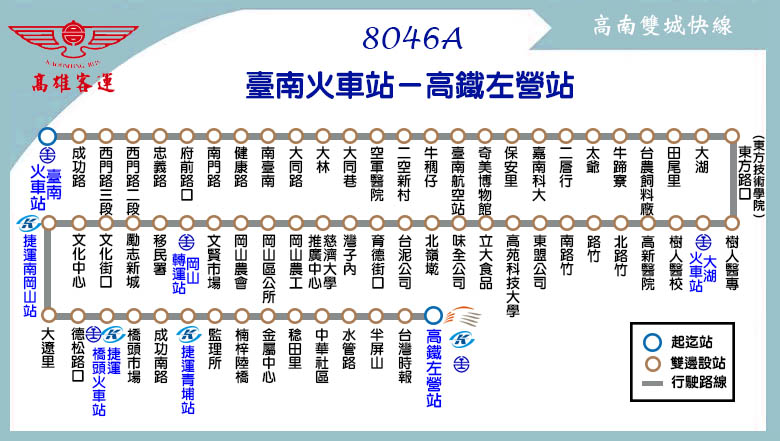
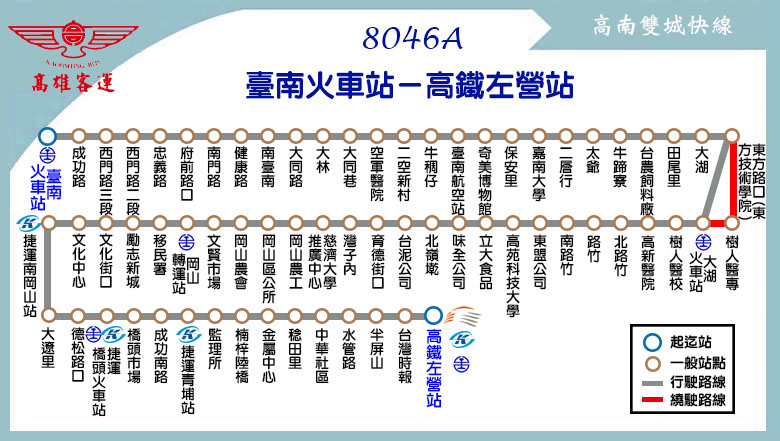
更新高雄客運票價表：8035、8042、8046、8046A (更新現金及電子票證票價，新增一卡通票價)

diff --git a/route/fare_and_time/highway_bus_8046.js b/route/fare_and_time/highway_bus_8046.js
@@ -1,18 +1,40 @@
-highway_bus_8046_interval_name = ["臺南火車站","嘉南大學","路竹","岡山","高雄火車站"];
+highway_bus_8046_interval_name = ["臺南","南臺南","大林","牛稠仔","嘉南大學","大湖","路竹","北嶺墘","岡山","橋頭","楠梓陸橋","榮總","民族路","高雄<br />火車站"];
 highway_bus_8046_interval_stop = [
-["臺南火車站"],
-["嘉南大學"],
-["路竹"],
-["岡山轉運站"],
-["高雄火車站"]
+["臺南火車站","成功路","西門路三段","西門路二段"],
+["忠義路","府前路口","南門路","健康路","南臺南"],
+["大同路","大林","大同巷","空軍醫院"],
+["二空新村","牛稠仔","臺南航空站","奇美博物館"],
+["保安里","嘉南大學","二層行","太爺","牛蹄寮"],
+["台農飼料廠","田尾里","大湖","東方路口(東方技術學院)","大湖火車站"],
+["樹人醫校","高新醫院","北路竹","路竹","南路竹","東盟公司"],
+["高苑科技大學","立大食品","味全公司","北嶺墘","台泥公司","育德街口","灣仔內","慈濟大學推廣中心"],
+["岡山農工","岡山區公所","岡山農會","文賢市場","移民署","勵志新城","文化街口","岡山文化中心","捷運南岡山站"],
+["大遼里","德松路口","捷運橋頭火車站","橋頭市場","成功南路","捷運青埔站"],
+["監理所","楠梓陸橋","金屬中心","稔田里","中華社區","水管路","半屏山","台灣時報"],
+["高楠新村","福檳新村","新莊高中","大中路口","菜公路口","文藻外語大學","天祥路口"],
+["郵局宿舍","民族路(明誠路口)","大統新世紀","隆峰寺","灣仔內","果菜公司"],
+["高醫","三民國中","三民公園","中山一路口","高雄站"]
 ];
-highway_bus_8046_stop_time_consume = [0,20,30,45,60,70];
 highway_bus_8046_fare = [
+[26],
+[26,26],
+[26,26,26],
+[26,26,26,26],
+[37,26,26,26,26],
+[51,40,33,26,26,26],
+[62,52,45,37,26,26,26],
+[77,66,59,52,40,26,26,26],
+[90,79,72,64,53,39,27,26,26],
+[105,95,87,80,68,54,43,28,26,26],
+[116,106,99,91,80,66,54,40,27,26,26],
+[133,122,115,108,96,82,70,56,43,28,26,26],
+[144,134,126,119,107,93,82,67,54,39,28,26,26],
+[155,145,137,130,118,104,92,78,65,50,39,26,26,26]
 ];
 // format = [time at the start stop] or
 // [time, other] or
 // [time, start_stop, end_stop, other]
-highway_bus_8046_main_stop_name = ["臺南<br />火車站","西門路<br />二段","大林","臺南<br />航空站","奇美<br />博物館","嘉南<br />藥理大學","大湖<br />火車站","路竹","捷運<br />南岡山站","高雄<br />火車站"];
+highway_bus_8046_main_stop_name = ["臺南<br />火車站","西門路<br />二段","大林","臺南<br />航空站","奇美<br />博物館","嘉南大學","大湖<br />火車站","路竹","捷運<br />南岡山站","高雄<br />火車站"];
 highway_bus_8046_main_stop_time_consume = [0,6,15,22,25,28,40,45,70,110];
 highway_bus_8046_important_stop = [0, 4, 6, 8, 9]; // 臺南火車站, 奇美博物館, 大湖火車站, 捷運南岡山站, 高雄火車站
 highway_bus_8046_time_go = [["05:50"]];

diff --git a/route/fare_and_time/highway_bus_8046A.js b/route/fare_and_time/highway_bus_8046A.js
@@ -1,13 +1,31 @@
-highway_bus_8046A_interval_name = ["臺南火車站","嘉南大學","路竹","岡山","楠梓站","高鐵左營站"];
+highway_bus_8046A_interval_name = ["臺南","南臺南","大林","牛稠仔","嘉南大學","大湖","路竹","北嶺墘","岡山","橋頭","楠梓陸橋","高鐵<br />左營站"];
 highway_bus_8046A_interval_stop = [
-["臺南火車站"],
-["嘉南大學"],
-["路竹"],
-["岡山轉運站"],
-["楠梓站"],
+["臺南火車站","成功路","西門路三段","西門路二段"],
+["忠義路","府前路口","南門路","健康路","南臺南"],
+["大同路","大林","大同巷","空軍醫院"],
+["二空新村","牛稠仔","臺南航空站","奇美博物館"],
+["保安里","嘉南大學","二層行","太爺","牛蹄寮"],
+["台農飼料廠","田尾里","大湖","東方路口(東方技術學院)","樹人醫專","大湖火車站"],
+["樹人醫校","高新醫院","北路竹","路竹","南路竹","東盟公司"],
+["高苑科技大學","立大食品","味全公司","北嶺墘","台泥公司","育德街口","灣仔內","慈濟大學推廣中心"],
+["岡山農工","岡山區公所","岡山農會","文賢市場","岡山轉運站","移民署","勵志新城","文化街口","岡山文化中心","捷運南岡山站"],
+["大遼里","德松路口","捷運橋頭火車站","橋頭市場","成功南路","捷運青埔站"],
+["監理所","楠梓陸橋","金屬中心","稔田里","中華社區","水管路","半屏山","台灣時報"],
 ["高鐵左營站"]
 ];
 highway_bus_8046A_fare = [
+[26],
+[26,26],
+[26,26,26],
+[26,26,26,26],
+[37,26,26,26,26],
+[51,40,33,26,26,26],
+[72,61,54,46,35,26,26],
+[86,75,68,61,49,35,26,26],
+[99,88,81,73,62,48,27,26,26],
+[114,104,96,89,77,63,43,28,26,26],
+[125,115,108,100,89,75,54,40,27,26,26],
+[142,131,124,117,105,91,70,56,43,28,26,26]
 ];
 // format = [time at the start stop] or
 // [time, other] or

diff --git a/route/fare_and_time/highway_bus_8042.js b/route/fare_and_time/highway_bus_8042.js
@@ -1,12 +1,29 @@
-highway_bus_8042_interval_name = ["奇美<br />博物站","高鐵<br />台南站","阿蓮","田寮","旗山"];
+highway_bus_8042_interval_name = ["臺南<br />航空站","奇美<br />博物站","高鐵<br />臺南站","阿蓮","崗山頭","月世界","古亭","鹿埔","馬頭山","旗山","中埔"];
 highway_bus_8042_interval_stop = [
-["奇美博物站"],
-["高鐵台南站"],
-["阿蓮分駐所"],
-["崗山頭"],
-["旗山轉運站","旗山北站"]
+["臺南航空站"], // 臺南航空站
+["奇美博物站"], // 奇美博物站
+["高鐵臺南站"], // 高鐵臺南站
+["崙仔頂","阿蓮分駐所","阿蓮","中正路","工業區","源勝社區","磚子窯"], // 阿蓮
+["大埤","南崗山","峰山里","崗山頭","崗山頭溫泉","崗安路","崗山頭市場"], // 崗山頭
+["竹山","糖廠","營盤頂","崇德國小","崇德市場","北勢宅","月世界","日月禪寺","古亭橋"], // 月世界
+["南勢崎頂","古亭水庫","古亭"], // 古亭
+["鹿埔","鹿埔分校","內門路口"], // 鹿埔
+["馬頭山頂","馬頭山","旗山分校","橋覺寺","鼓山崎嶺"], // 馬頭山
+["旗亭橋","中學路","德昌路","旗山轉運站","延平路","市場","中華路口","旗山北站"], // 旗山
+["旗山監理所","朝天宮","嶺頂","實踐大學"] // 中埔
 ];
 highway_bus_8042_fare = [
+[26],
+[26,26],
+[26,26,26],
+[51,46,26,26],
+[62,57,35,26,26],
+[77,72,50,26,26,26],
+[84,79,57,33,26,26,26],
+[92,87,66,41,30,26,26,26],
+[103,99,77,53,42,27,26,26,26],
+[122,118,96,72,61,46,39,30,26,26],
+[138,133,111,87,76,61,54,46,34,26,26]
 ];
 // format = [time at the start stop] or
 // [time, other] or

diff --git a/route/fare_and_time/highway_bus_8035.js b/route/fare_and_time/highway_bus_8035.js
@@ -1,20 +1,19 @@
 highway_bus_8035_interval_name = ["南化","金馬寮","木柵","內門","中埔","旗山"];
 highway_bus_8035_interval_stop = [
-["南化","南化派出所"], // 南化
-["界址","西廍","東埔派出所","大坪","北頭","金馬寮","茄苳橋"], // 金馬寮
-["分水嶺","內興里","椰樹橋","頂寮橋","木柵","蘇遠埔","內湖"], // 木柵
-["口湖","內門","內門區公所","內門國小","十三甲","內埔橋"], // 內門
-["菜公坑","中埔頭","內門國中","中埔","觀音亭","農會","二層橋","石溝","實踐大學"], // 中埔
-["嶺頂","朝天宮","旗山監理站","旗山北站","中華路口","市場","延平站","旗山轉運站"] // 旗山
+["南化","南化派出所","界址","西廍","東埔派出所"], // 南化
+["大坪","北頭","金馬寮","茄苳橋","分水嶺","內興里"], // 金馬寮
+["椰樹橋","頂寮橋","木柵","蘇遠埔","內湖"], // 木柵
+["口湖","內門","內門區公所","內門國小","十三甲","內埔橋","菜公坑"], // 內門
+["中埔頭","內門國中","中埔","觀音亭","農會","二層橋","石溝","實踐大學","嶺頂"], // 中埔
+["朝天宮","旗山監理站","旗山北站","中華路口","市場","延平路","旗山轉運站"] // 旗山
 ];
-highway_bus_8035_stop_time_consume = [0,20,30,45,60,70];
 highway_bus_8035_fare = [
-[26,23,25,36,46,64],
-[26,26,23,23,33,51],
-[28,26,26,23,23,40],
-[41,26,26,26,23,28],
-[52,37,26,26,26,23],
-[73,58,45,32,26,26]
+[26],
+[26,26],
+[28,26,26],
+[41,26,26,26],
+[52,37,26,26,26],
+[86,71,58,44,26,26]
 ];
 // format = [time at the start stop] or
 // [time, other] or

diff --git a/tools/web_model.js b/tools/web_model.js
@@ -302,9 +302,21 @@ function block_fare_highway(charge_type, additional_message){
 			<p>　</p>');
 	print_fare_table( eval(route_file_name + '_interval_name'), eval(route_file_name + '_fare'), fare_table_color, charge_type);
 
-	document.write('<p>　</p>\
-		<h2>使用電子票證時，上下車皆須刷卡</h2><br />\
-		<h3>刷電子票證票價僅供參考，誤差為1元上下</h3>');
+	var fare_notice = '<h2>使用電子票證時，上下車皆須刷卡</h2><br />';
+	if(charge_type=='Kaohsiung') {
+		fare_notice += '<h3><span style="color: red;">本路線非大台南公車，無法享有八公里免費及轉乘優惠</span></h3>\
+		<h1>本路線使用「一卡通」刷卡現折12元，且單趟收費最高上限為60元</h1>\
+		<p><span style="color: blue; font-weight: bold;">(僅一卡通普卡、學生卡享此優惠，已享優惠之卡種如半票不適用)</span></p>';
+	}
+	else if(charge_type=='8050') {
+		fare_notice += '<h3>刷電子票證票價僅供參考，誤差為1元上下</h3>\
+						<h1>本路線不適用一卡通折12元及收費最高上限優惠</h1>';
+	}
+	else {
+		fare_notice += '<h3><span style="color:red;">本路線非大台南公車，無法享有八公里免費及轉乘優惠</span></h3>\
+						<h3>刷電子票證票價僅供參考，誤差為1元上下</h3>';
+	}
+	document.write('<p>　</p>' + fare_notice);
 	if(additional_message) document.write(additional_message); // print additional message
 	document.write('<p>　</p></div>\
 	</div>\

diff --git a/highway/8050.html b/highway/8050.html
@@ -22,8 +22,7 @@
 	block_header();
 	block_route_map(null);
 	block_route_info(route_interval,'高雄客運','','里程計費','http://taiwanbus.tw/information.aspx?Line=9325&Lang=" target="_blank');
-	block_fare_highway("8050",'<h1>本路線不適用一卡通收費最高上限優惠</h1>\
-<center><div style="text-align: left; width: 550px; border:solid 1px; margin-top: 30px; background-color: #BBFFBB; padding: 15px;"><h3>1. 持市民卡所有卡種刷卡搭乘8050公車享基本里程免費，以及2小時內大台南公車及8050雙向轉乘9元優惠。</h3>\
+	block_fare_highway("8050",'<p> </p><h2><span style="color:red;">「臺南市市民卡」專屬優惠</span></h2><center><div style="text-align: left; width: 550px; border:solid 1px; background-color: #BBFFBB; padding: 15px;"><h3>1. 持市民卡所有卡種刷卡搭乘8050公車享基本里程免費，以及2小時內大台南公車及8050雙向轉乘9元優惠。</h3>\
 <h3>2. 臺南市65歲以上市民使用「市民卡敬老卡」、身心障礙市民使用「市民卡愛心卡」刷卡乘車超過基本里程依半票金額扣款。</h3>\
 <h3>3. 臺南市學生使用「市民卡學生卡」無額外85折優惠。</h3></div></center>');
 	block_time_schedule('臺南火車站/旗山轉運站','佛光山','');

diff --git a/highway/8042.html b/highway/8042.html
@@ -24,26 +24,7 @@
 	block_header();
 	block_route_map(null);
 	block_route_info(route_interval,'高雄客運','','里程計費','http://ibus.tbkc.gov.tw/bus/pda/businfo.aspx?Routeid=8042&GO_OR_BACK=2&Line=All&lang=Cht');
-	//block_fare(10, null);
-	document.write('<div id="wrapper3">\
-	<a name="fare"></a>\
-	<div id="faretable" class="container">\
-		<div class="title">\
-			<h2>' + title_name + ' ─ ' + route_name + ' 票價表</h2>\
-			<span class="byline">' + title_name_en + ' ' + route_name_en + ', Bus Fare</span>\
-		</div>\
-		<div class="content">\
-			<p>&nbsp;</p>\
-			<h1><font color="red">尚無提供票價表</font></h1>\
-			<p>&nbsp;</p>\
-			<h1>使用一卡通收費最高上限為60元</h1>\
-			<p>&nbsp;</p><p>&nbsp;</p>\
-			<h2>使用電子票證時，上下車皆須刷卡</h2>\
-			<p> </p>\
-			<p>詳情請參閱高雄客運網站</p><p></p>\
-		</div>\
-	</div>\
-</div>');
+	block_fare_highway("Kaohsiung","");
 	block_time_schedule(route_start_stop,route_end_stop,'<h2><font color="red">僅「假日」延駛奇美博物館、臺南航空站</font></h2>');
 	block_transfer(transfer_hsr_tainan_station);
 	block_copyright();

diff --git a/highway/8046A.html b/highway/8046A.html
@@ -24,26 +24,7 @@
 	block_header();
 	block_route_map(null);
 	block_route_info(route_interval,'高雄客運','','里程計費','http://ibus.tbkc.gov.tw/bus/pda/businfo.aspx?Routeid=8073&GO_OR_BACK=2&Line=All&lang=Cht');
-	//block_fare(10, null);
-	document.write('<div id="wrapper3">\
-	<a name="fare"></a>\
-	<div id="faretable" class="container">\
-		<div class="title">\
-			<h2>' + title_name + ' ─ ' + route_name + ' 票價表</h2>\
-			<span class="byline">' + title_name_en + ' ' + route_name_en + ', Bus Fare</span>\
-		</div>\
-		<div class="content">\
-			<p>&nbsp;</p>\
-			<h1><font color="red">尚無提供票價表</font></h1>\
-			<p>&nbsp;</p>\
-			<h1>使用一卡通收費最高上限為60元</h1>\
-			<p>&nbsp;</p><p>&nbsp;</p>\
-			<h2>使用電子票證時，上下車皆須刷卡</h2>\
-			<p> </p>\
-			<p>詳情請參閱高雄客運網站</p><p></p>\
-		</div>\
-	</div>\
-</div>');
+	block_fare_highway("Kaohsiung","");
 	block_time_schedule(route_start_stop,route_end_stop,'「<font color="red">*</font>」表示不開進樹人醫專');
 	block_transfer(transfer_tainan_railway_station);
 	block_copyright();

diff --git a/highway/8046.html b/highway/8046.html
@@ -24,26 +24,7 @@
 	block_header();
 	block_route_map(null);
 	block_route_info(route_interval,'高雄客運','','里程計費','http://ibus.tbkc.gov.tw/bus/pda/businfo.aspx?Routeid=8046&GO_OR_BACK=2&Line=All&lang=Cht');
-	//block_fare(10, null);
-	document.write('<div id="wrapper3">\
-	<a name="fare"></a>\
-	<div id="faretable" class="container">\
-		<div class="title">\
-			<h2>' + title_name + ' ─ ' + route_name + ' 票價表</h2>\
-			<span class="byline">' + title_name_en + ' ' + route_name_en + ', Bus Fare</span>\
-		</div>\
-		<div class="content">\
-			<p>&nbsp;</p>\
-			<h1><font color="red">尚無提供票價表</font></h1>\
-			<p>&nbsp;</p>\
-			<h1>使用一卡通收費最高上限為60元</h1>\
-			<p>&nbsp;</p><p>&nbsp;</p>\
-			<h2>使用電子票證時，上下車皆須刷卡</h2>\
-			<p> </p>\
-			<p>詳情請參閱高雄客運網站</p><p></p>\
-		</div>\
-	</div>\
-</div>');
+	block_fare_highway("Kaohsiung","");
 	block_time_schedule(route_start_stop,route_end_stop,'');
 	block_transfer(transfer_tainan_railway_station);
 	block_copyright();

diff --git a/tools/show_fare_tool.js b/tools/show_fare_tool.js
@@ -36,7 +36,10 @@ function query_fare(theForm, fare_array, fare_type){
 			card_price = price - 26;
 			break;
 		case 'Kaohsiung':
-			card_price = (fd<td) ? fare_array[fd][td]: (fd==td) ? 23 : fare_array[td][fd];
+			card_price = price;
+			var ipass_price = price - 12; // 使用「一卡通」上車刷卡現折12元
+			document.getElementById("card_adult").innerHTML = (ipass_price > 60) ? 60 : ipass_price; // 收費最高上限60元
+			document.getElementById("card_half").innerHTML = Math.ceil(price / 2); // 半票不適用一卡通優惠
 			break;
 		case 'highway':
 			card_price = (fd<td) ? fare_array[fd][td]: (fd==td) ? 21 : fare_array[td][fd];
@@ -71,6 +74,9 @@ function print_fare_table(interval_name, fare, color, fare_type){ // the functio
 				switch(fare_type) {
 					case '8km':
 						card_price = fare[j][i] - 26;
+						break;
+					case 'Kaohsiung':
+						card_price = fare[j][i];
 						break;
 					case '8050':
 						card_price = Math.round(fare[j][i] * HIGHWAY_CARD_PRICE_RATIO);

diff --git a/route/fare_and_time/highway_bus_8050.js b/route/fare_and_time/highway_bus_8050.js
@@ -12,7 +12,7 @@ highway_bus_8050_interval_stop = [
 ["五間","烏山腳路口","烏山腳","烏山頭"], // 烏山頭
 ["七號橋","內東里","小烏山","竹圍"], // 內東里
 ["內門衛生所","中埔頭","中埔","觀音亭","農會","二層橋","石溝","實踐大學"], // 中埔
-["嶺頂","朝天宮","旗山監理站","旗山北站","中華路口","市場","延平站","旗山轉運站","德昌路","中學路","秋涼山","頭林巷口","花旗山莊","旗南一路"], // 旗山
+["嶺頂","朝天宮","旗山監理站","旗山北站","中華路口","市場","延平路","旗山轉運站","德昌路","中學路","秋涼山","頭林巷口","花旗山莊","旗南一路"], // 旗山
 ["和昌","武鹿","衛光里","大山","清水寺","溪洲國小","溪洲","7-11溪洲門市","公園仔","大洲國中","新光里"], // 溪州
 ["大竹圍","尚和","欉仔坑","南勝湖"], // 尚和
 ["德勝巷","砂石場","嶺口","坊崁","統嶺坑"], // 嶺口

diff --git a/highway/8035.html b/highway/8035.html
@@ -1,4 +1,4 @@
-<!DOCTYPE html PUBLIC "-//W3C//DTD XHTML 1.0 Strict//EN" "http://www.w3.org/TR/xhtml1/DTD/xhtml1-strict.dtd">
+<!DOCTYPE html PUBLIC "-//W3C//DTD XHTML 1.0 Strict//EN" "http://www.w3.org/TR/xhtml1/DTD/xhtml1-strict.dtd">
 <html xmlns="http://www.w3.org/1999/xhtml">
 <head>
 <meta http-equiv="Content-Type" content="text/html; charset=utf-8" />
@@ -25,7 +25,7 @@
 	block_header();
 	block_route_map(null);
 	block_route_info(route_interval,'高雄客運','','里程計費','http://ibus.tbkc.gov.tw/bus/pda/businfo.aspx?Routeid=8035&GO_OR_BACK=2&Line=All&lang=Cht');
-	block_fare(20, null);
+	block_fare_highway("Kaohsiung","");
 	block_time_schedule(route_start_stop,route_end_stop,S_message+'</h3><h3><font color="red">晨間班次不開進實踐大學</font>');
 	block_transfer(transfer_nanhua_district_office);
 	block_copyright();
